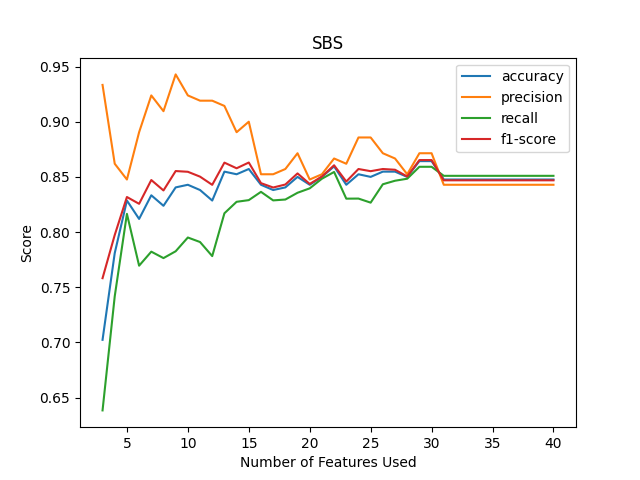
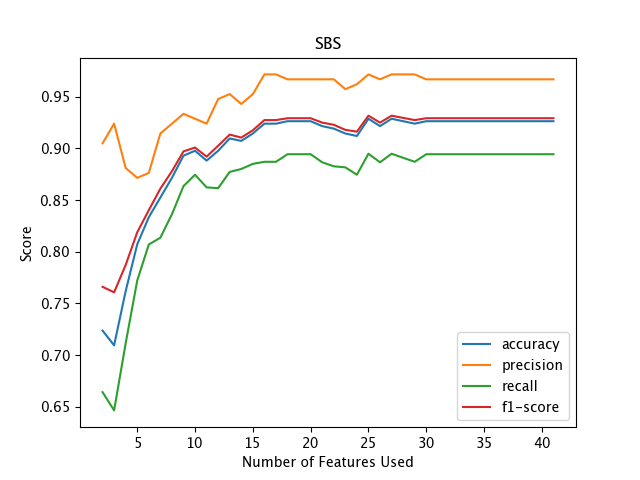
updated svm to get the best model

diff --git a/svm.py b/svm.py
@@ -4,7 +4,7 @@ import matplotlib.pyplot as plt
 
 from sklearn.impute import SimpleImputer
 from sklearn.model_selection import train_test_split, GridSearchCV, cross_val_score
-from sklearn.preprocessing import StandardScaler, Normalizer
+from sklearn.preprocessing import StandardScaler, Normalizer, MinMaxScaler, MaxAbsScaler
 from sklearn.metrics import accuracy_score, precision_score, recall_score, f1_score
 from sklearn.svm import SVC
 from sklearn.ensemble import RandomForestClassifier
@@ -91,10 +91,10 @@ y = df_upsampled['ready']
 #list of features in order of importance determined by SBS feature selection
 
 sbs_features = ['J_Dz(e)', 'nHM', 'F01[N-N]', 'F04[C-N]', 'NssssC', 'nCb-', 'C%', 'nCp',
-       'n0', 'F03[C-N]', 'SdssC', 'HyWi_B(m)', 'LOC', 'SM6_L', 'F03[C-0]',
-       'Mi', 'nN-N', 'nArN02', 'nCRX3', 'nCIR', 'B03[C-Cl]', 'N-073',
-       'SpMax_A', 'TI2_L', 'NCrt', 'C-026', 'F02[C-N]', 'SpMax_B(m)',
-       'Psi_i_A', 'SM6_B(m)', 'nArC00R']
+       'F03[C-N]', 'SdssC', 'HyWi_B(m)', 'LOC', 'SM6_L', 'F03[C-0]', 'Me',
+       'Mi', 'nN-N', 'nArN02', 'nCRX3', 'nCIR', 'B03[C-Cl]', 'SpMax_A',
+       'Psi_i_1d', 'B04[C-Br]', 'NCrt', 'C-026', 'nHDon', 'SpMax_B(m)',
+       'Psi_i_A', 'nN', 'SM6_B(m)']
 
 
 #list of features in order of importance determined by RF feature selection
@@ -185,10 +185,10 @@ scores = cross_val_score(gs, X_train, y_train,
 print("\n\nCV Accuracy: %.3f +/- %.3f" % (np.mean(scores), np.std(scores)))
 
 #Hyper parameters determined from previous grid search
-svm = SVC(C=10, kernel='rbf', gamma=0.1)
+svm = SVC(C=100, kernel='rbf', gamma=.1)
 
 #Calculate accuracy, precision, recall, and f1-score using each RF and SBS feature selection
-num_features = list(range(3, 41))
+num_features = list(range(2, 42))
 for name, features in zip(["SBS", "RF"], [sbs_features, rf_features]):
     print("\n\n" + name + " Feature Selection")
     accuracy_list = []
@@ -200,18 +200,15 @@ for name, features in zip(["SBS", "RF"], [sbs_features, rf_features]):
         #Code from https://stackoverflow.com/questions/40636514/selecting-pandas-dataframe-column-by-list
         X_train_new = X_train[X_train.columns.intersection(features[:num])]
         X_test_new = X_test[X_test.columns.intersection(features[:num])]
-        
-        X_train_norm = norm.fit_transform(X_train_new)
-        X_test_norm = norm.transform(X_test_new)
 
-        lda = LDA(n_components=1)
-        X_train_lda = lda.fit_transform(X_train_norm, y_train)
-        X_test_lda = lda.transform(X_test_norm)
+        #Apply standard scaler
+        X_train_std = stdsc.fit_transform(X_train_new)
+        X_test_std = stdsc.transform(X_test_new)
 
         print("\n\nNumber of features:", num)
             
-        svm.fit(X_train_lda, y_train)
-        y_pred = svm.predict(X_test_lda)
+        svm.fit(X_train_std, y_train)
+        y_pred = svm.predict(X_test_std)
         
         print("Accuracy:", accuracy_score(y_pred, y_test))
         print("Precision:", precision_score(y_pred, y_test))
